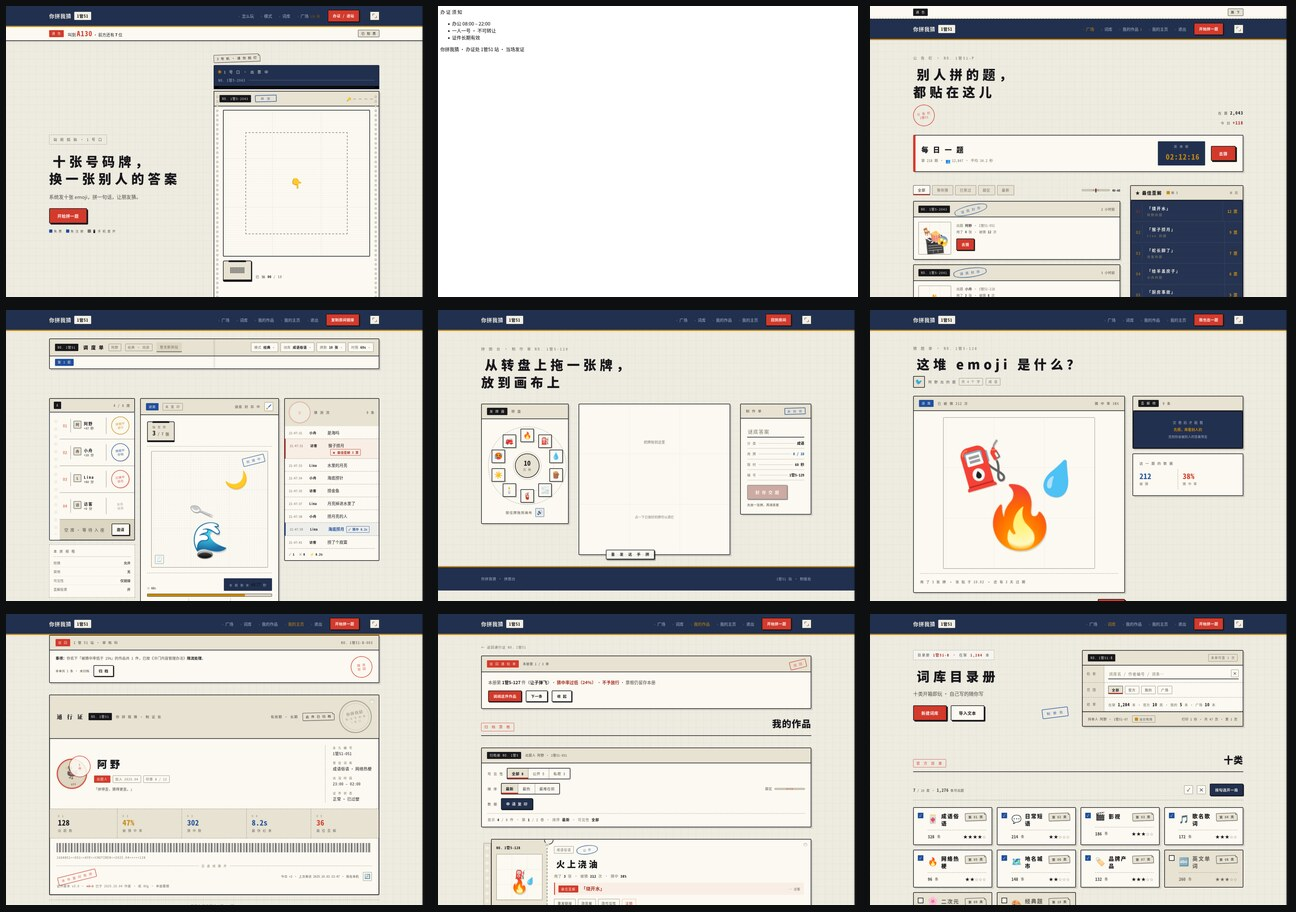
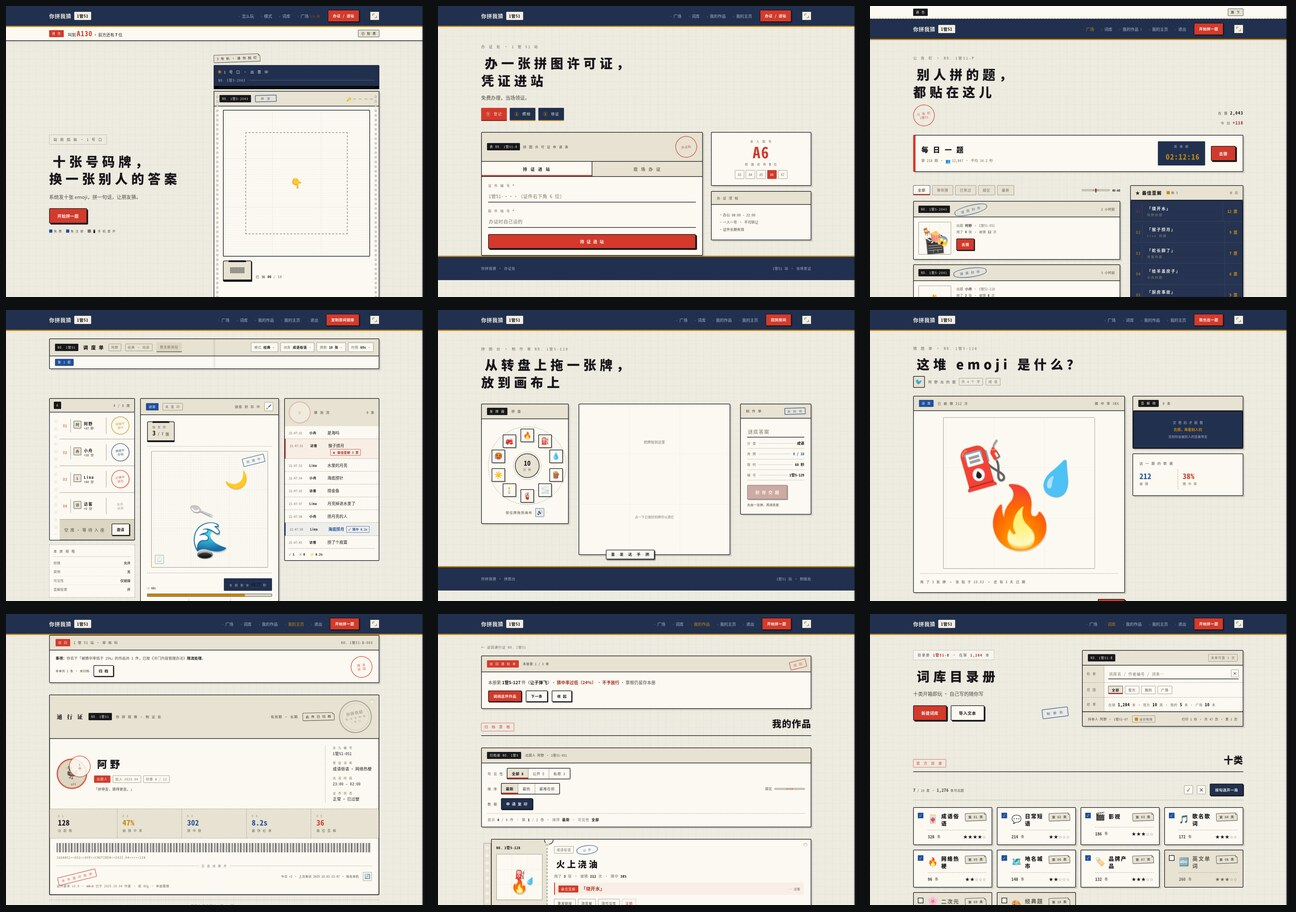
补：精确删除 login 的收费公示（上一版正则会连 JS 引用的元素一起删）
上一提交用贪婪正则删 login 的收费公示，把 #qList / #sample / #signLine
等 15 个被 JS 引用的元素一并删掉，check.sh 第 2 组报了 15 处死引用。

已 git checkout 还原，改用**完整字符串精确匹配**那 11 行。
验证：login JS 通过 node --check、id 层面零死引用、三个关键词零残留。

教训：删结构不要用贪婪正则。这个项目里的 HTML 是手写的缩进结构，
用「整块字符串」匹配比用 <div>...</div> 配对可靠得多。

Changed region(s): [[0.3395, 0.0, 0.679, 0.3377]]

diff --git a/app/login.html b/app/login.html
@@ -1,5 +1,241 @@
+<!DOCTYPE html>
+<html lang="zh-CN">
+<head>
+<meta charset="UTF-8">
+<meta name="viewport" content="width=device-width,initial-scale=1">
+<title>办证处 · 拼图许可证 — 你拼我猜</title>
+<link rel="stylesheet" href="base.css">
+<style>
+/* ============================================================
+   登录 / 注册 = 办证处
+   你要办一张「拼图许可证」。凭证进站。
+   物理动作：取号 · 填表 · 照相 · 核对样张 · 盖章发证 · 归档打孔
+   简化律：字段说明交给 placeholder，照相交给 📷 本身，
+   就绪状态交给 .pip，页脚只留落款。
+   ============================================================ */
+
+.head{padding:52px 0 8px}
+.head h1{margin:14px 0 16px}
+
+/* 三个窗口牌 */
+.wins{display:flex;gap:10px;flex-wrap:wrap;margin-top:22px}
+.wins .window-sign.on{background:var(--red);border-bottom-color:#7A1F16}
+.wins .window-sign.on b{color:#FFE2DA}
+
+/* 柜台两栏 */
+.desk{display:grid;grid-template-columns:1fr 344px;gap:28px;align-items:start;padding-top:30px}
+@media(max-width:1000px){.desk{grid-template-columns:1fr;gap:32px}}
+
+/* ---- 申请表 ---- */
+.form .sheet-hd{gap:10px}
+.form .sheet-hd .stamp{margin-left:auto}
+.tabs{display:flex;margin:-22px -22px 22px;border-bottom:2px solid var(--ink)}
+.tabs button{flex:1;font-family:var(--mono);font-size:14px;font-weight:700;letter-spacing:.18em;
+  padding:14px 10px;background:var(--paper-2);color:var(--ink-3);border:none;cursor:pointer;
+  border-right:2px solid var(--ink);transition:.15s}
+.tabs button:last-child{border-right:none}
+.tabs button[aria-selected="true"]{background:var(--paper-4);color:var(--ink);
+  box-shadow:inset 0 -4px 0 var(--red)}
+
+/* 证件照位：点一下 = 照一张 */
+.photo-row{display:flex;align-items:center;gap:16px;margin-bottom:22px}
+.photo{width:96px;height:120px;border:2px dashed var(--ink-4);border-radius:2px;
+  display:grid;place-items:center;cursor:pointer;background:var(--paper-4);
+  font-family:var(--emoji);font-size:40px;transition:.2s;position:relative;overflow:hidden}
+.photo:hover{border-color:var(--blue)}
+.photo.done{border-style:solid;border-color:var(--ink);cursor:pointer}
+.photo .ico-solo{opacity:.55}
+.photo.done .ico-solo{display:none}
+
+/* 防伪核对：样张 + 九宫格（机构版的「我不是机器人」） */
+.sample{display:flex;align-items:center;gap:14px;margin:8px 0 12px;flex-wrap:wrap}
+.sample .sp{width:56px;height:56px;border:2px solid var(--ink);border-radius:2px;
+  display:grid;place-items:center;font-family:var(--emoji);font-size:30px;background:var(--paper-4)}
+.grid3{display:grid;grid-template-columns:repeat(3,1fr);gap:6px;max-width:260px}
+.cell{aspect-ratio:1;border:2px solid var(--ink-4);border-radius:2px;display:grid;
+  place-items:center;font-family:var(--emoji);font-size:26px;cursor:pointer;
+  background:var(--paper-4);transition:.12s}
+.cell:hover{border-color:var(--blue)}
+.cell.on{border-color:var(--blue);background:rgba(31,78,156,.10);
+  box-shadow:inset 0 0 0 2px var(--blue)}
+
+/* 签字栏 */
+.sign .line{border-bottom:2px solid var(--ink);height:38px;font-family:var(--serif);
+  font-size:20px;padding:0 4px;outline:none}
+.sign .line:focus{border-bottom-color:var(--blue)}
+
+/* 提交区 */
+.submit-row{display:flex;gap:14px;align-items:center;flex-wrap:wrap;margin-top:22px}
+.submit-row .btn{flex:1 1 auto;text-align:center;min-width:170px}
+.submit-row .pip{margin-left:auto}
+
+/* ---- 右栏 ---- */
+.rail{display:grid;gap:18px}
+@media(max-width:1000px){.rail{grid-template-columns:repeat(auto-fit,minmax(min(240px, 100%), 1fr))}}
+
+.take-no{text-align:center;padding:22px 18px}
+.take-no .k{font-family:var(--mono);font-size:10.5px;letter-spacing:.24em;color:var(--ink-3)}
+.take-no .q{display:flex;justify-content:center;gap:5px;margin-top:12px;flex-wrap:wrap}
+.take-no .q i{font-style:normal;font-family:var(--mono);font-size:11.5px;padding:4px 9px;
+  border:1px solid var(--ink-4);border-radius:2px;color:var(--ink-3)}
+.take-no .q i.now{background:var(--red);color:#fff;border-color:var(--red-ink)}
+
+.price{font-family:var(--mono);font-size:12.5px}
+.price .r{display:flex;align-items:baseline;gap:8px;padding:7px 0;border-bottom:1px dotted var(--ink-4)}
+.price .r:last-child{border-bottom:none}
+.price .r .d{flex:1;border-bottom:1px dotted var(--ink-4);transform:translateY(-4px)}
+.price .r b{color:var(--red-ink);font-weight:700;white-space:nowrap}
+.price .r .free{color:var(--blue)}
+
+.notice-list{font-family:var(--mono);font-size:12px;color:var(--ink-2);line-height:2.1}
+.notice-list li{list-style:none;padding-left:1.4em;position:relative}
+.notice-list li::before{content:"·";position:absolute;left:.3em;color:var(--ink-3)}
+
+/* ---- 发证结果 ---- */
+.issued{margin-top:0}
+.issued .cert{position:relative;background:var(--paper-4);border:2px solid var(--ink);
+  border-radius:var(--rad);box-shadow:var(--sh-soft);padding:24px}
+.issued .cert .row1{display:flex;align-items:center;gap:16px;flex-wrap:wrap;
+  border-bottom:1.5px dashed var(--ink-3);padding-bottom:14px;margin-bottom:16px}
+.issued .cert .who{display:flex;align-items:center;gap:14px}
+.issued .cert .av{width:64px;height:80px;border:2px solid var(--ink);border-radius:2px;
+  display:grid;place-items:center;font-family:var(--emoji);font-size:32px;background:var(--paper-2)}
+.issued .cert .nm{font-size:24px;font-weight:900;letter-spacing:.12em}
+.issued .cert .no{font-family:var(--mono);font-weight:700;font-size:26px;letter-spacing:.06em;
+  color:var(--red-ink)}
+.issued .cert .stamp{position:absolute;right:22px;bottom:20px}
+</style>
+<link rel="manifest" href="manifest.webmanifest">
+<meta name="theme-color" content="#22304F">
+<link rel="icon" href="icon.svg" type="image/svg+xml">
+<link rel="apple-touch-icon" href="icon-192.png">
+<meta name="mobile-web-app-capable" content="yes">
+<meta name="apple-mobile-web-app-capable" content="yes">
+<meta name="apple-mobile-web-app-status-bar-style" content="black-translucent">
+<meta name="apple-mobile-web-app-title" content="你拼我猜">
+</head>
+<body>
+
+
+<header class="nav">
+  <div class="wrap">
+    <a class="logo" href="index.html">你拼我猜<span class="no">1管51</span></a>
+    <nav>
+      <a href="plaza.html">广场</a>
+      <a href="banks.html">词库</a>
+      <a href="works.html">我的作品</a>
+      <a href="me.html">我的主页</a>
+    </nav>
+    <a class="btn sm" href="login.html">办证 / 进站</a>
+  </div>
+</header>
+
+<main>
+
+<section class="head">
+  <div class="wrap">
+    <span class="lbl-lg">办 证 处 · 1 管 51 站</span>
+    <h1 class="tk">办一张拼图许可证，<br>凭证进站</h1>
+    <p class="lead">免费办理，当场领证。</p>
+
+    <div class="wins">
+      <span class="window-sign on"><b>①</b> 登记</span>
+      <span class="window-sign"><b>②</b> 照相</span>
+      <span class="window-sign"><b>③</b> 领证</span>
+    </div>
+  </div>
+</section>
+
+<section class="desk wrap">
+
+  <!-- ================= 申请表 ================= -->
+  <div class="sheet form" id="form">
+    <div class="sheet-hd">
+      <span class="tag-no">表 NO. 1管51-A</span>
+      <span class="lbl">拼 图 许 可 证 申 请 表</span>
+      <span class="stamp round">办证处</span>
+    </div>
+    <div class="sheet-bd">
+
+      <div class="tabs" role="tablist">
+        <button role="tab" aria-selected="true"  data-p="in">持 证 进 站</button>
+        <button role="tab" aria-selected="false" data-p="new">现 场 办 证</button>
+      </div>
+
+      <!-- ---- 持证进站 ---- -->
+      <div class="panel" id="panel-in">
+        <div class="field">
+          <label>证 件 编 号 <b>*</b></label>
+          <input type="text" placeholder="1管51-···（证件右下角 6 位）" id="inNo" autocomplete="off">
+        </div>
+        <div class="field">
+          <label>取 件 暗 号 <b>*</b></label>
+          <input type="password" placeholder="办证时自己设的" id="inPw">
+        </div>
+        <div class="submit-row">
+          <button class="btn" id="doIn">持 证 进 站</button>
+        </div>
+      </div>
+
+      <!-- ---- 现场办证 ---- -->
+      <div class="panel" id="panel-new" hidden>
+        <div class="field">
+          <label>姓 名 <b>*</b></label>
+          <input type="text" placeholder="填真名或化名都行" id="newName" maxlength="12">
+        </div>
+        <div class="field">
+          <label>联 系 电 话 <b>*</b></label>
+          <input type="tel" inputmode="numeric" placeholder="11 位" maxlength="11" id="newPhone">
+        </div>
+
+        <!-- 照相：点一下 = 按一次快门，不需要说明 -->
+        <div class="photo-row">
+          <div class="photo" id="photo" role="button" tabindex="0" aria-label="照相" title="点一下照相">
+            <span class="ico-solo" aria-hidden="true">📷</span>
+          </div>
+        </div>
+
+        <div class="field">
+          <label>设 置 取 件 暗 号 <b>*</b></label>
+          <input type="password" placeholder="至少 6 位" id="newPw">
+        </div>
+
+        <div class="field">
+          <label>防 伪 核 对 <b>*</b></label>
+          <div class="sample">
+            <span class="sp" id="sample">🚦</span>
+            <span class="say">请在下方选出与样张相同的一枚</span>
+          </div>
+          <div class="grid3" id="grid"></div>
+          <div class="note" id="capNote"></div>
+        </div>
+
+        <div class="field sign">
+          <label>申 请 人 签 字</label>
+          <div class="line" contenteditable="true" id="signLine"></div>
+        </div>
+
+        <div class="submit-row">
+          <button class="btn" id="doNew" disabled>提 交 申 请 · 盖 章 发 证</button>
+          <span class="pip warm" id="newHint">待照相核对</span>
+        </div>
+      </div>
 
     </div>
+  </div>
+
+  <!-- ================= 柜台信息 ================= -->
+  <aside class="rail">
+
+    <div class="sheet take-no">
+      <div class="k">本 人 取 号</div>
+      <div class="queue-no" id="qNo">A6</div>
+      <div class="k" style="margin-top:8px">前 面 还 有 <b style="color:var(--ink)">3</b> 位</div>
+      <div class="q" id="qList"></div>
+    </div>
+
+    <!-- 收费公示整块删除（K3 连续两轮列为 P0）：
+         这是一个承诺「免费办理，当场领证」的产品，价目表与之自相矛盾。 -->
 
     <div class="sheet">
       <div class="sheet-hd"><span class="lbl">办 证 须 知</span></div>
